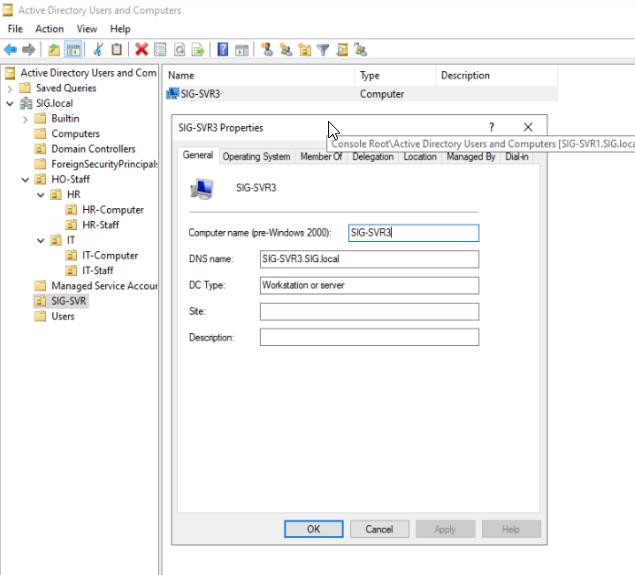
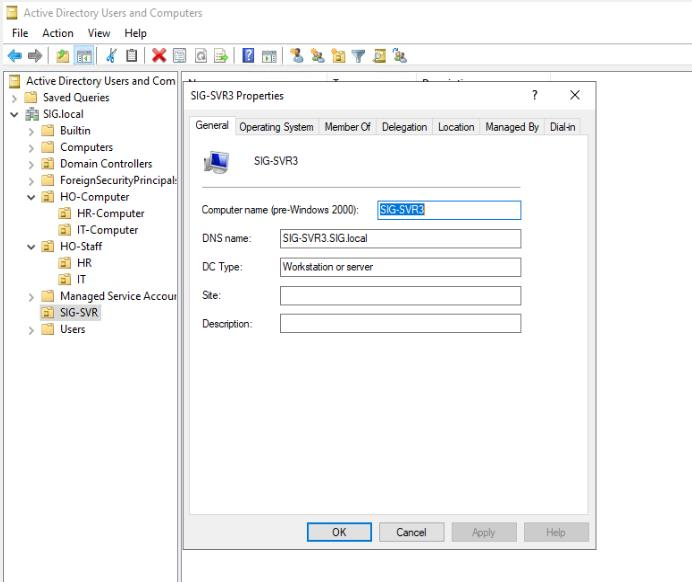
Update

Changed region(s): [[0.0, 0.0, 1.0, 1.0]]

diff --git a/Windows Server 2022 Lab/WS2022LAB.md b/Windows Server 2022 Lab/WS2022LAB.md
@@ -69,6 +69,9 @@
     - [Setup Network drives using single GPO](#setup-network-drives-using-single-gpo)
     - [IT users can only see HelpDesk folder as E: Drive](#it-users-can-only-see-helpdesk-folder-as-e-drive)
     - [HR users can only see HR folder as G: Drive](#hr-users-can-only-see-hr-folder-as-g-drive)
+    - [Hide C drive on only SIG HR Users](#hide-c-drive-on-only-sig-hr-users)
+    - [Setup HelpDesk group as Local Admin on SIG-PCs](#setup-helpdesk-group-as-local-admin-on-sig-pcs)
+    - [Deploy Google Chrome Browser through Group Policy on HO-Staff Computers](#deploy-google-chrome-browser-through-group-policy-on-ho-staff-computers)
 
 ## Introduction
 
@@ -112,8 +115,10 @@
 	- [x] Setup share files and folders on SIG-SVR4 to setup network drives
 	- [x] HelpDesk users can only see HelpDesk folder as E: Drive
 	- [x] HR users can only see HR folder as G: Drive
-	- [ ] Hide C drive on only SIG HR Users either use existing GPO or new GPO
-	- [ ] Setup HelpDesk group as Local Admin on SIG-PCs
+	- [x] Hide C drive on only SIG HR Users
+	- [x] Setup HelpDesk group as Local Admin on SIG-PCs
+	- [ ] Deploy Google Chrome Browser through Group Policy on HO-Staff Computers
+	- [ ] Get Group Policy for Google Chrome
 	- [ ] Group Policies Central Store
 
 ## Setup Workstation VM to manage
@@ -232,7 +237,7 @@ Add IP Addresses of DHCP Servers and MDT/WDS Server
 
 Below OUs in red square are created.
 
-**HO-Staff** OU is for the users and computers, and **SIG-SVR** OU is for servers.
+**HO-Staff** OU is for the users and computers, **HO-Computer** OU, HR-COmputer and IT-Computer OUs are for comptuers, and **SIG-SVR** OU is for servers.
 
 ![OUs](./img/OUs.jpg)
 
@@ -496,7 +501,7 @@ KeyboardLocale= 0409:00000409
 
 SkipDomainMembership=Yes
 JoinDomain=SIG.local
-MachineObjectOU=OU=IT-Computer,OU=IT,OU=HO-Staff,DC=SIG,DC=local
+MachineObjectOU=OU=IT-Computer,OU=IT,OU=HO-Computer,DC=SIG,DC=local
 DomainAdmin=Josh
 DomainAdminDomain=SIG.local
 DomainAdminPassword=P@ssw0rd123!@#
@@ -563,7 +568,7 @@ KeyboardLocale= 0409:00000409
 
 SkipDomainMembership=Yes
 JoinDomain=SIG.local
-MachineObjectOU=OU=HR-Computer,OU=HR,OU=HO-Staff,DC=SIG,DC=local
+MachineObjectOU=OU=HR-Computer,OU=HR,OU=HO-Computer,DC=SIG,DC=local
 DomainAdmin=Josh
 DomainAdminDomain=SIG.local
 DomainAdminPassword=P@ssw0rd123!@#
@@ -758,9 +763,17 @@ Computer account for SIG-PC1 is in IT-Computer OU.
 
 ### Setup Network drives using single GPO
 
+HO-Staff GPO is created and mapped it to HO-Staff OU
+
+![HO-Staff GPO](./img/GPO-HO-Staff-MapDrives.jpg)
+
 ![Map Drive GPO](./img/MapDrive-GPO.jpg)
 
 ### IT users can only see HelpDesk folder as E: Drive
+
+![Help Desk Map Drive](./img/GPO-MapDrive-IT-Drive.jpg)
+
+![Help Desk Map Drive](./img/GPO-MapDrive-IT-Drive1.jpg)
 
 On SIG-PC1
 
@@ -770,5 +783,44 @@ On SIG-PC1
 
 ### HR users can only see HR folder as G: Drive
 
+![HR Map Drive](./img/GPO-MapDrive-HR-Drive.jpg)
+
+![HR Map Drive](./img/GPO-MapDrive-HR-Drive1.jpg)
+
 ![HR Map Drive](./img/MapDrive-HR.jpg)
 
+### Hide C drive on only SIG HR Users
+
+Created HR GPO for HR OU
+
+![HR GPO](./img/GPO-HROU.jpg)
+
+![HR GPO](./img/GPO-HROU-HideCDrive.jpg)
+
+![Hide C Drive](./img/GP-HideCDrive.jpg)
+
+### Setup HelpDesk group as Local Admin on SIG-PCs
+
+Add Helpdesk group as a member of Administrators in Restricted Groups under HO-Staff GPO.
+
+![Local Admin](./img/GPO-HO-HelpDesk-LocalAdmin.jpg)
+
+### Deploy Google Chrome Browser through Group Policy on HO-Staff Computers
+
+Download [Google Chrome Bundle](https://chromeenterprise.google/download/?modal-id=download-chrome)
+
+Create share folder on SIG-SVR4 and put Google Chrome MSI Installer in it
+
+![Google Chrome MSI Installer](./img/GPO-GoogleChrome.jpg)
+
+Put Google Chrome MSI Installer into GPO of HO-Staff &rarr; Computer Configuration &rarr; Policies &rarr; Software Settings &rarr; Software Installation
+
+![Google Chrome MSI Installer](./img/GPO-GoogleChrome1.jpg)
+
+![Google Chrome MSI Installer](./img/GPO-GoogleChrome2.jpg)
+
+Once it is done, type gpupdate /force on client
+
+![Google Chrome MSI Installer](./img/GPO-GoogleChrome3.jpg)
+
+Even after 
